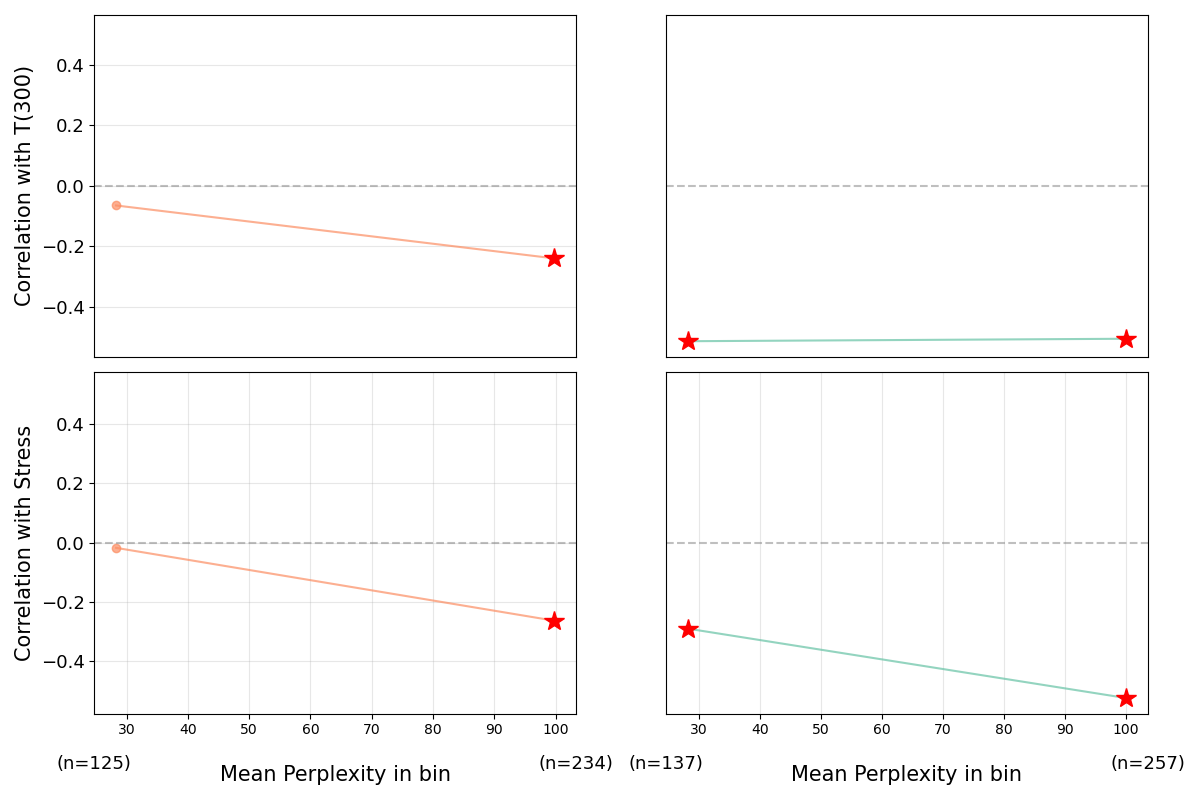
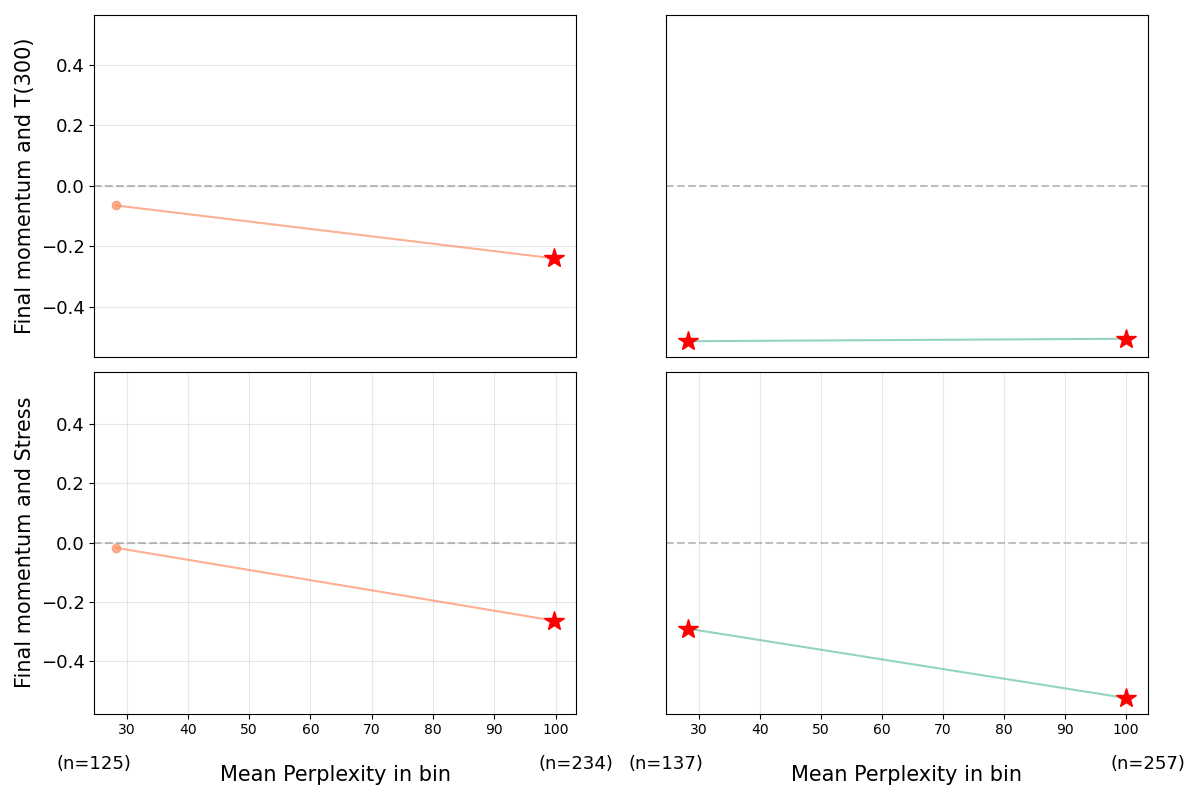
update

Changed region(s): [[0.0, 0.5, 0.0308, 0.8438], [0.0, 0.0625, 0.0308, 0.4062]]

diff --git a/compile_outputs_stress_trutworthiness.py b/compile_outputs_stress_trutworthiness.py
@@ -470,7 +470,7 @@ def analyze_correlation_by_perplexity(data, x, y_list, perplexity_col='Perplexit
             ax_new.set_xticks([])
         
         # Set y-label only for leftmost plots
-        ax_old.set_ylabel(f'Correlation with {y}', fontsize=font_size)
+        ax_old.set_ylabel(f'{x} and {y}', fontsize=font_size)
         ax_new.set_ylabel('')
         
         # Set y-ticks only for leftmost plots
@@ -679,26 +679,61 @@ def plot_variance_by_perplexity(data, variables, perplexity_col='Perplexity',
     plt.tight_layout()
     plt.show()
 
-def interaction_plot(data, x1, x2, y, source = None, figsize = (12, 5), fontsize = 14, rotation = 0):
-
+def interaction_plot(data, x1, x2, y, source=None, figsize=(12, 5), fontsize=14, rotation=0,
+                    x1_bins=None, x2_bins=None):
+    """
+    Create an interaction plot and scatter plot to visualize the relationship between three variables.
+    
+    Parameters:
+    - data: DataFrame containing the data
+    - x1: First variable name for x-axis
+    - x2: Second variable name for grouping/coloring
+    - y: Response variable name
+    - source: Optional filter for 'Source' column
+    - figsize: Figure size tuple
+    - fontsize: Font size for labels
+    - rotation: Rotation angle for x-axis labels
+    - x1_bins: Optional list of bin edges for x1. If None, uses qcut with 3 groups
+    - x2_bins: Optional list of bin edges for x2. If None, uses qcut with 2 groups
+    """
     if source is not None:
         data = data[data['Source'] == source]
     
     plt.figure(figsize=figsize)
 
+    # Create bins for x1
+    if x1_bins is not None:
+        x1_groups = pd.cut(data[x1], bins=x1_bins)
+    else:
+        x1_groups = pd.qcut(data[x1], 3)
+
+    # Create bins for x2
+    if x2_bins is not None:
+        x2_groups = pd.cut(data[x2], bins=x2_bins)
+    else:
+        x2_groups = pd.qcut(data[x2], 2)
+
+    # Custom color palette with blue and red tones
+    custom_palette = ['#1f77b4', '#d62728']  # Blue and red from seaborn's default palette
+
     # Plot 1: Interaction plot (categorical bins)
     plt.subplot(1, 2, 1)
     sns.pointplot(data=data, 
-                x=pd.qcut(data[x1], 3),  # Split x1 into 3 quantile-based groups
+                x=x1_groups,
                 y=y, 
-                hue=pd.qcut(data[x2], 2))  # Split x2 into 2 groups
-    # plt.title(f"Interaction Plot\n{y} by {x1} grouped by {x2}")
+                hue=x2_groups,
+                palette=custom_palette)
     plt.xticks(rotation=rotation)
+    plt.xlabel(x1, fontsize=fontsize)
+    plt.ylabel(y, fontsize=fontsize)
+    plt.legend(title=x2, fontsize=fontsize-2)
 
     # Plot 2: Scatterplot with coloring
     plt.subplot(1, 2, 2)
-    sns.scatterplot(data=data, x=x1, y=y, hue=pd.qcut(data[x2], 2))
-    # plt.title(f"Scatterplot\n{y} vs {x1} colored by {x2}")
+    sns.scatterplot(data=data, x=x1, y=y, hue=x2_groups, palette=custom_palette)
+    plt.xlabel(x1, fontsize=fontsize)
+    plt.ylabel(y, fontsize=fontsize)
+    plt.legend(title=x2, fontsize=fontsize-2)
 
     plt.tight_layout()
     plt.show()
@@ -871,6 +906,8 @@ theta_new_limit = 0.25
 
 corr_with_pvalues(df_merged_clean[(df_merged_clean['Source'] == 'New') & (df_merged_clean['Perplexity'] < 40)].drop(columns=['Source', 'Combination', 'Runtime (min)'], inplace=False))
 corr_with_pvalues(df_merged_clean[(df_merged_clean['Source'] == 'Old') & (df_merged_clean['Perplexity'] < 40)].drop(columns=['Source', 'Combination', 'Runtime (min)'], inplace=False))
+corr_with_pvalues(df_merged_clean[(df_merged_clean['Source'] == 'Old') & (df_merged_clean['Perplexity'] >= 40)].drop(columns=['Source', 'Combination', 'Runtime (min)'], inplace=False))
+
 corr_with_pvalues(df_merged_clean.drop(columns=['Source', 'Combination', 'Runtime (min)'], inplace=False))
 
 plot_scatter_with_regression(
@@ -944,6 +981,12 @@ analyze_correlation_by_perplexity(data=df_merged_clean, x = 'Final momentum', y_
                                   perplexity_bins_new=[0,50,155],
                                   figsize=(12,8))
 
+analyze_correlation_by_perplexity(data=df_merged_clean, x = 'Final momentum', y_list=['T(30)'],
+                                  perplexity_col='Perplexity',
+                                  perplexity_bins_old=[0,50,155],
+                                  perplexity_bins_new=[0,50,155],
+                                  figsize=(12,8))
+
 
 analyze_correlation_by_perplexity(data=df_merged_clean, x = 'Theta', y_list=['T(30)'],
                                   perplexity_col='Perplexity',
@@ -951,6 +994,13 @@ analyze_correlation_by_perplexity(data=df_merged_clean, x = 'Theta', y_list=['T(
                                   perplexity_bins_new=[0,50,155],
                                   figsize=(10,5),
                                   font_size=14)
+
+analyze_correlation_by_perplexity(data=df_merged_clean, x = 'Theta', y_list=['Stress'],
+                                  perplexity_col='Perplexity',
+                                  perplexity_bins_old=[0,50,155],
+                                  perplexity_bins_new=[0,50,155],
+                                  figsize=(10,5),
+                                  font_size=14)                                  
 
 
 analyze_correlation_by_perplexity(data=df_merged_clean, x = 'Perplexity', y_list=['Runtime (sec)'],
@@ -980,9 +1030,87 @@ plot_variance_by_perplexity(
 )
 
 
+interaction_plot(
+    data=df_merged_clean,
+    source='Old',
+    x1='Theta',
+    x2 = 'Perplexity',
+    y = 'Runtime (sec)')
+    #x2_bins=[0, 50, 155])
+
+interaction_plot(
+    data=df_merged_clean,
+    source='New',
+    x1='Perplexity',
+    x2 = 'Theta',
+    y = 'Runtime (sec)')
+    #x2_bins=[0, 50, 155])
+
+
+sns.kdeplot(df_merged_clean[df_merged_clean['Source'] == 'Old']['Runtime (sec)'])
+plt.show()
+
+df_merged_clean[df_merged_clean['Source'] == 'Old'].drop(columns=['Runtime (min)', 'Source', 'Combination']).corr()
 
 
 
 
 
 
+
+
+
+
+
+
+
+
+
+
+
+
+
+
+
+
+
+# Create figure with two subplots
+fig, (ax1, ax2) = plt.subplots(1, 2, figsize=(15, 6))
+
+# Left plot (Old data)
+sns.scatterplot(
+    data=df_merged_clean[df_merged_clean['Source'] == 'Old'],
+    x='Theta',
+    y='T(30)',
+    hue='Perplexity',
+    palette='viridis',
+    hue_norm=(df_merged_clean['Perplexity'].min(), df_merged_clean['Perplexity'].max()),
+    ax=ax1  # Use ax1 instead of creating new subplot
+)
+
+ax1.set_title('Pretreatment 1', fontsize=14, pad=20)
+ax1.set_xlabel('Theta', fontsize=12)
+ax1.set_ylabel('T(30)', fontsize=12)
+ax1.legend(title='Perplexity', fontsize=10)
+ax1.grid(True, linestyle='--', alpha=0.6)
+
+# Right plot (New data)
+sns.scatterplot(
+    data=df_merged_clean[df_merged_clean['Source'] == 'New'],
+    x='Theta',
+    y='T(30)',
+    hue='Perplexity',
+    palette='viridis',
+    hue_norm=(df_merged_clean['Perplexity'].min(), df_merged_clean['Perplexity'].max()),
+    ax=ax2  # Use ax2 instead of creating new subplot
+)
+
+ax2.set_title('Pretreatment 2', fontsize=14, pad=20)
+ax2.set_xlabel('Theta', fontsize=12)
+ax2.set_ylabel('', fontsize=12)  # Commented out
+# ax2.legend(title='Perplexity', fontsize=10)  # Commented out
+ax2.grid(True, linestyle='--', alpha=0.6)
+
+# Adjust layout to prevent overlap
+plt.tight_layout()
+plt.show()
